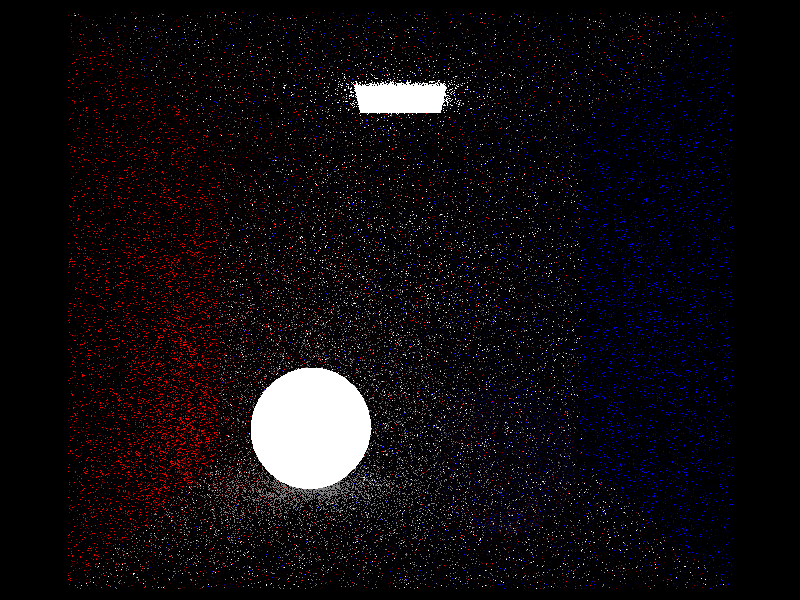
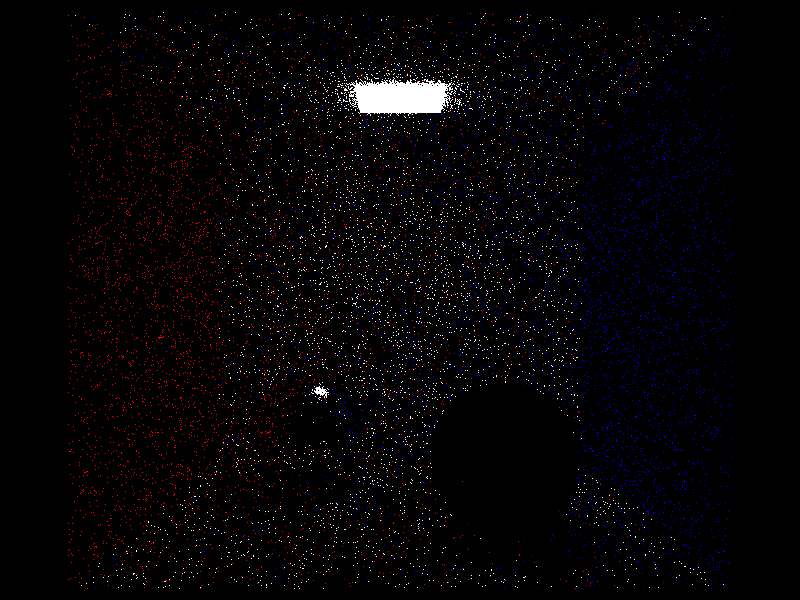
高光 透射（TODO有BUG） 采样多了CUDA崩溃（TODO）

diff --git a/CVMCTracer/CVMCTracer/CUDA/Utils.hpp b/CVMCTracer/CVMCTracer/CUDA/Utils.hpp
@@ -46,5 +46,79 @@ namespace PW
                 return PWVector3f(xx, yy, zz);
             }
         }
+
+        __inline__ __device__ PWVector3f samplePhong(curandState *RNG, const PWVector3f& normal, const PWVector3f& indir, const PWuint Ns)
+        {
+            PWVector3f outdir;
+            outdir.x = indir.x - 2 * (indir.x * normal.x + indir.y * normal.y + indir.z * normal.z) * normal.x;
+            outdir.y = indir.y - 2 * (indir.x * normal.x + indir.y * normal.y + indir.z * normal.z) * normal.y;
+            outdir.z = indir.z - 2 * (indir.x * normal.x + indir.y * normal.y + indir.z * normal.z) * normal.z;
+            PWfloat x = curand_uniform(RNG);
+            PWfloat y = curand_uniform(RNG);
+            PWfloat sinTheta = sqrt(1 - pow(x, 2.0f / (Ns + 1)));
+            PWfloat phi = 2 * PW_PI * y;
+            /* No rotate */
+            if (abs(normal.y - 1) < FLT_EPSILON)
+            {
+                return PWVector3f(sinTheta * cos(phi), x, sinTheta * sin(phi));
+            }
+            /* Inverse */
+            else if (abs(normal.y + 1) < FLT_EPSILON)
+            {
+                return PWVector3f(-sinTheta * cos(phi), -x, -sinTheta * sin(phi));
+            }
+            /* Rotate */
+            else
+            {
+                PWVector3f dir(sinTheta * cos(phi), x, sinTheta * sin(phi));
+                PWfloat invlen = 1.0f / (1.0f - outdir.y * outdir.y);
+                PWfloat xx = (outdir.z * dir.x + outdir.x * dir.y + outdir.x * outdir.y * dir.z) * invlen;
+                PWfloat yy = outdir.y * dir.y * invlen - dir.z;
+                PWfloat zz = (-outdir.x * dir.x + outdir.z * dir.y + outdir.z * outdir.y * dir.z) * invlen;
+                return PWVector3f(xx, yy, zz);
+            }
+        }
+
+        __inline__ __device__ PWVector3f sampleFresnel(curandState *RNG, const PWVector3f& normal, const PWVector3f& indir, const PWfloat Tr, const PWfloat Ni)
+        {
+            PWfloat x = curand_uniform(RNG);
+            PWVector3f outdir;
+            /* Refract */
+            if (x < Tr)
+            {
+                PWfloat ndoti = indir.x * normal.x + indir.y * normal.y + indir.z * normal.z;
+                /* In */
+                if (ndoti <= 0)
+                {
+                    PWfloat alpha = -ndoti / Ni - sqrt(1 - (1 - ndoti * ndoti) / Ni / Ni);
+                    outdir.x = alpha * normal.x + indir.x / Ni;
+                    outdir.y = alpha * normal.y + indir.y / Ni;
+                    outdir.z = alpha * normal.z + indir.z / Ni;
+                    normalize(outdir);
+                }
+                /* Out */
+                else
+                {
+                    PWfloat test = 1 - (1 - ndoti * ndoti) * Ni * Ni;
+                    if (test < 0)
+                    {
+                        return PWVector3f(0, 0, 0);
+                    }
+                    PWfloat alpha = -ndoti * Ni - sqrt(test);
+                    outdir.x = alpha * normal.x + indir.x * Ni;
+                    outdir.y = alpha * normal.y + indir.y * Ni;
+                    outdir.z = alpha * normal.z + indir.z * Ni;
+                    normalize(outdir);
+                }
+            }
+            /* Reflect */
+            else
+            {
+                outdir.x = indir.x - 2 * (indir.x * normal.x + indir.y * normal.y + indir.z * normal.z) * normal.x;
+                outdir.y = indir.y - 2 * (indir.x * normal.x + indir.y * normal.y + indir.z * normal.z) * normal.y;
+                outdir.z = indir.z - 2 * (indir.x * normal.x + indir.y * normal.y + indir.z * normal.z) * normal.z;
+            }
+            return outdir;
+        }
     }
 }
